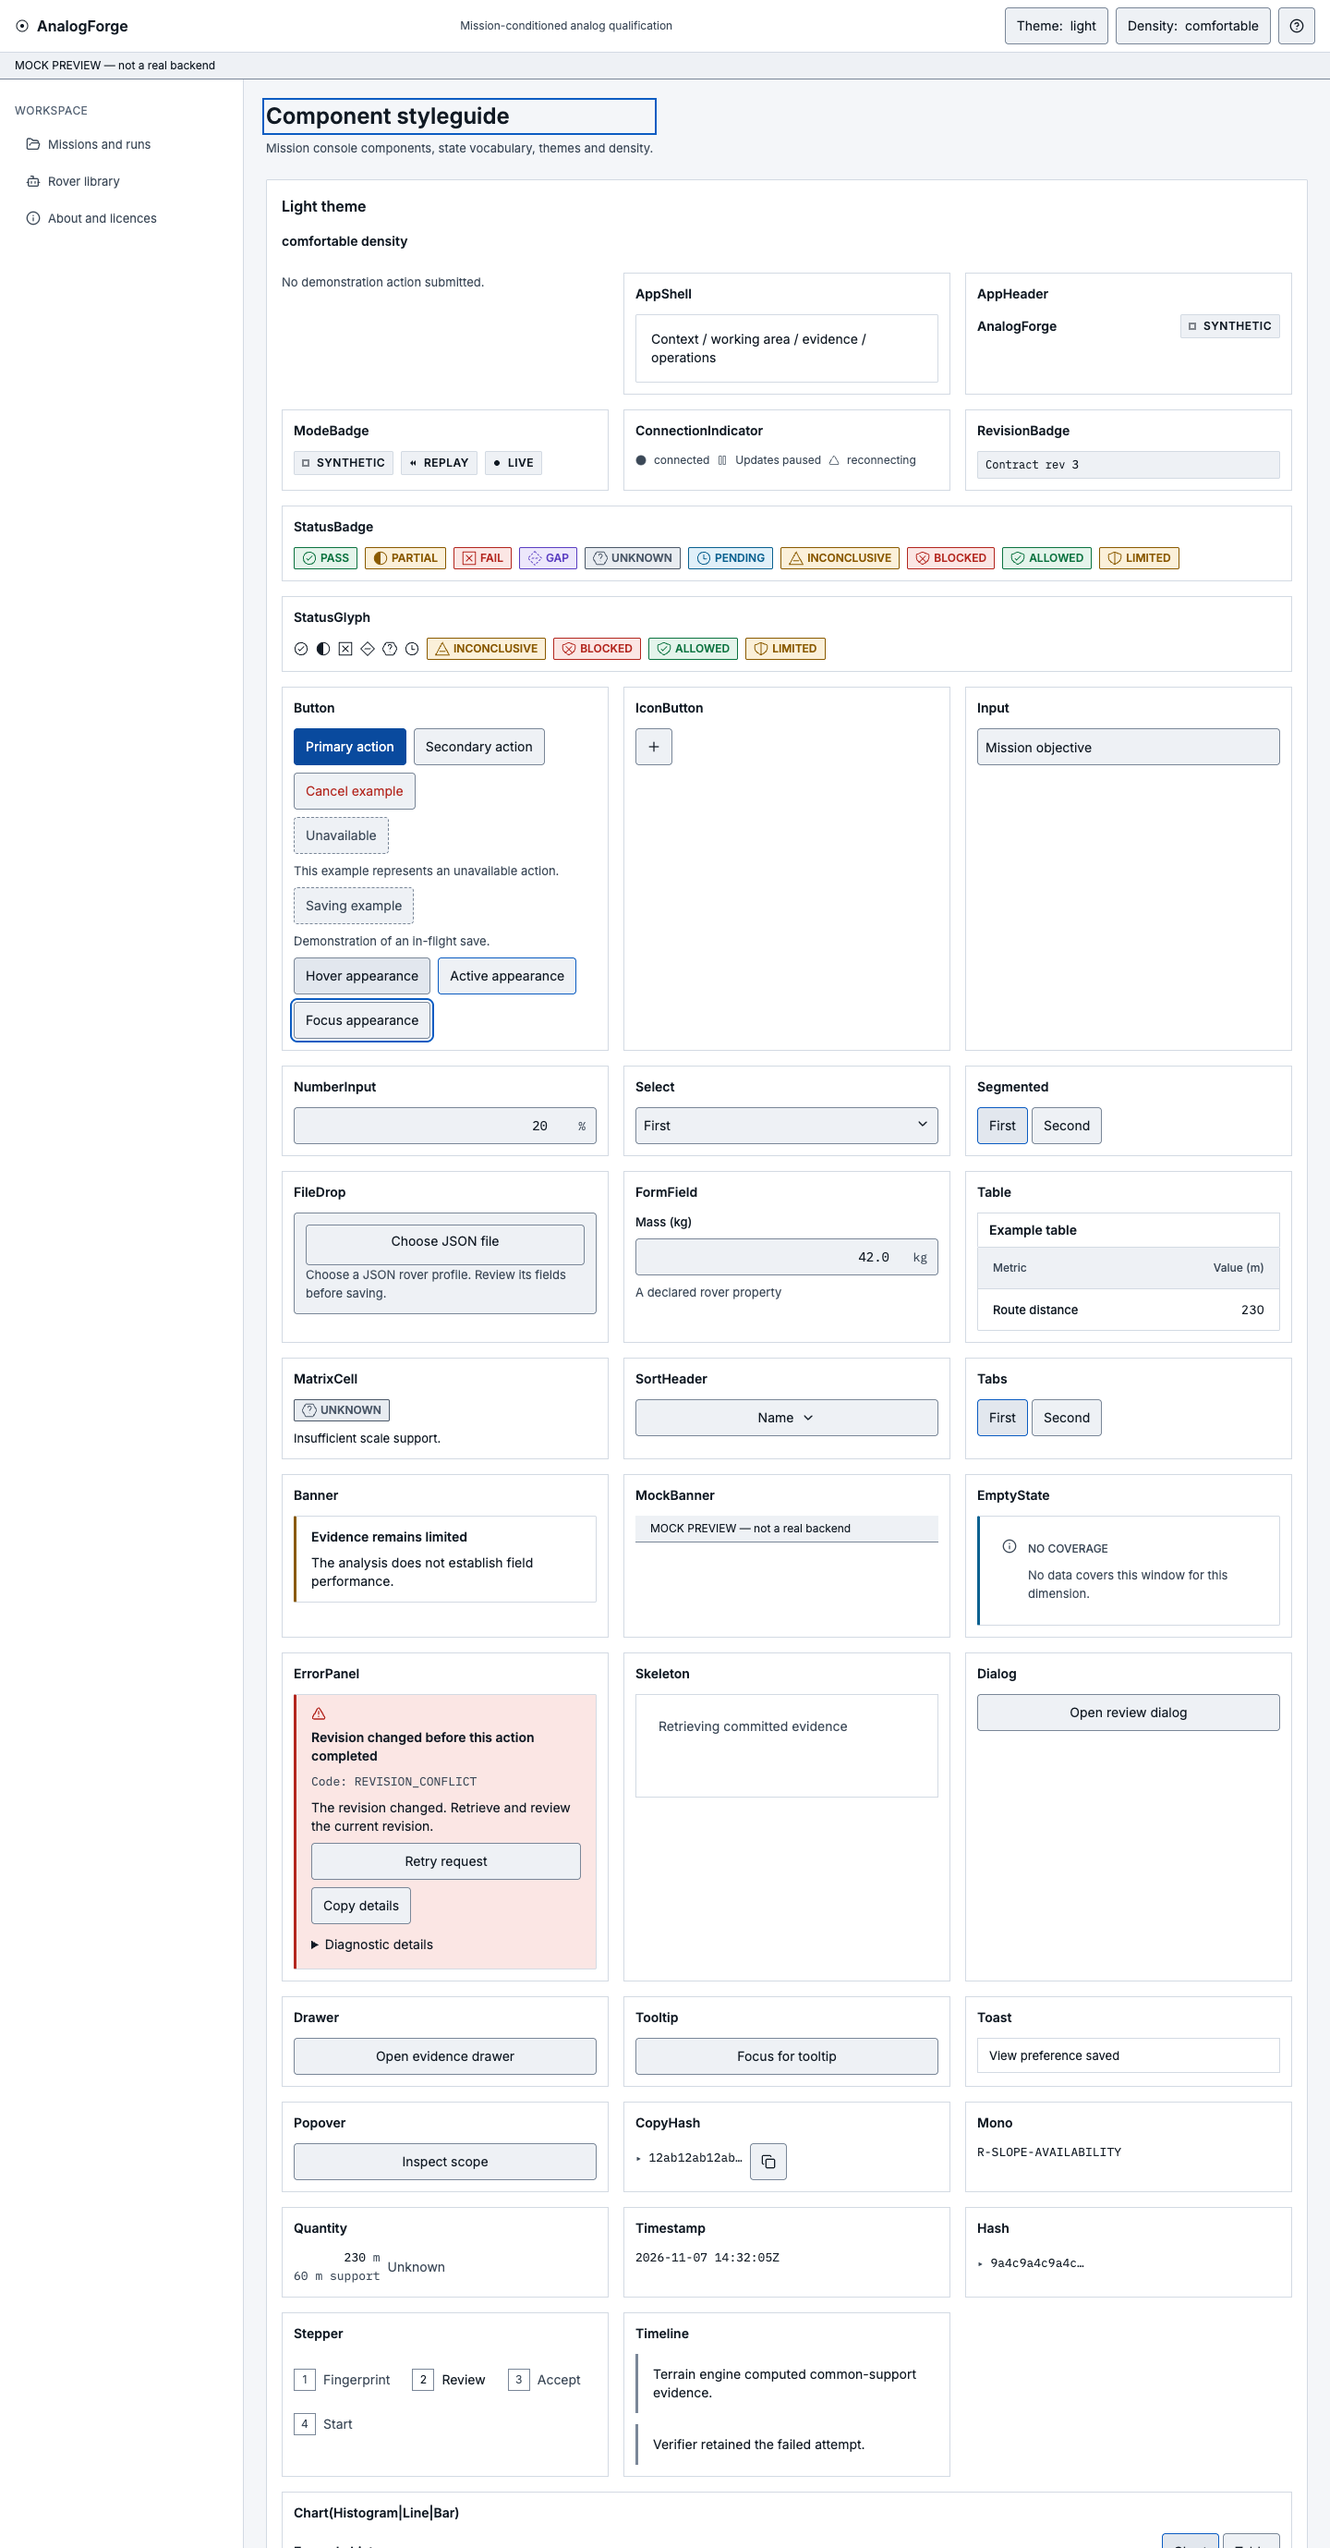
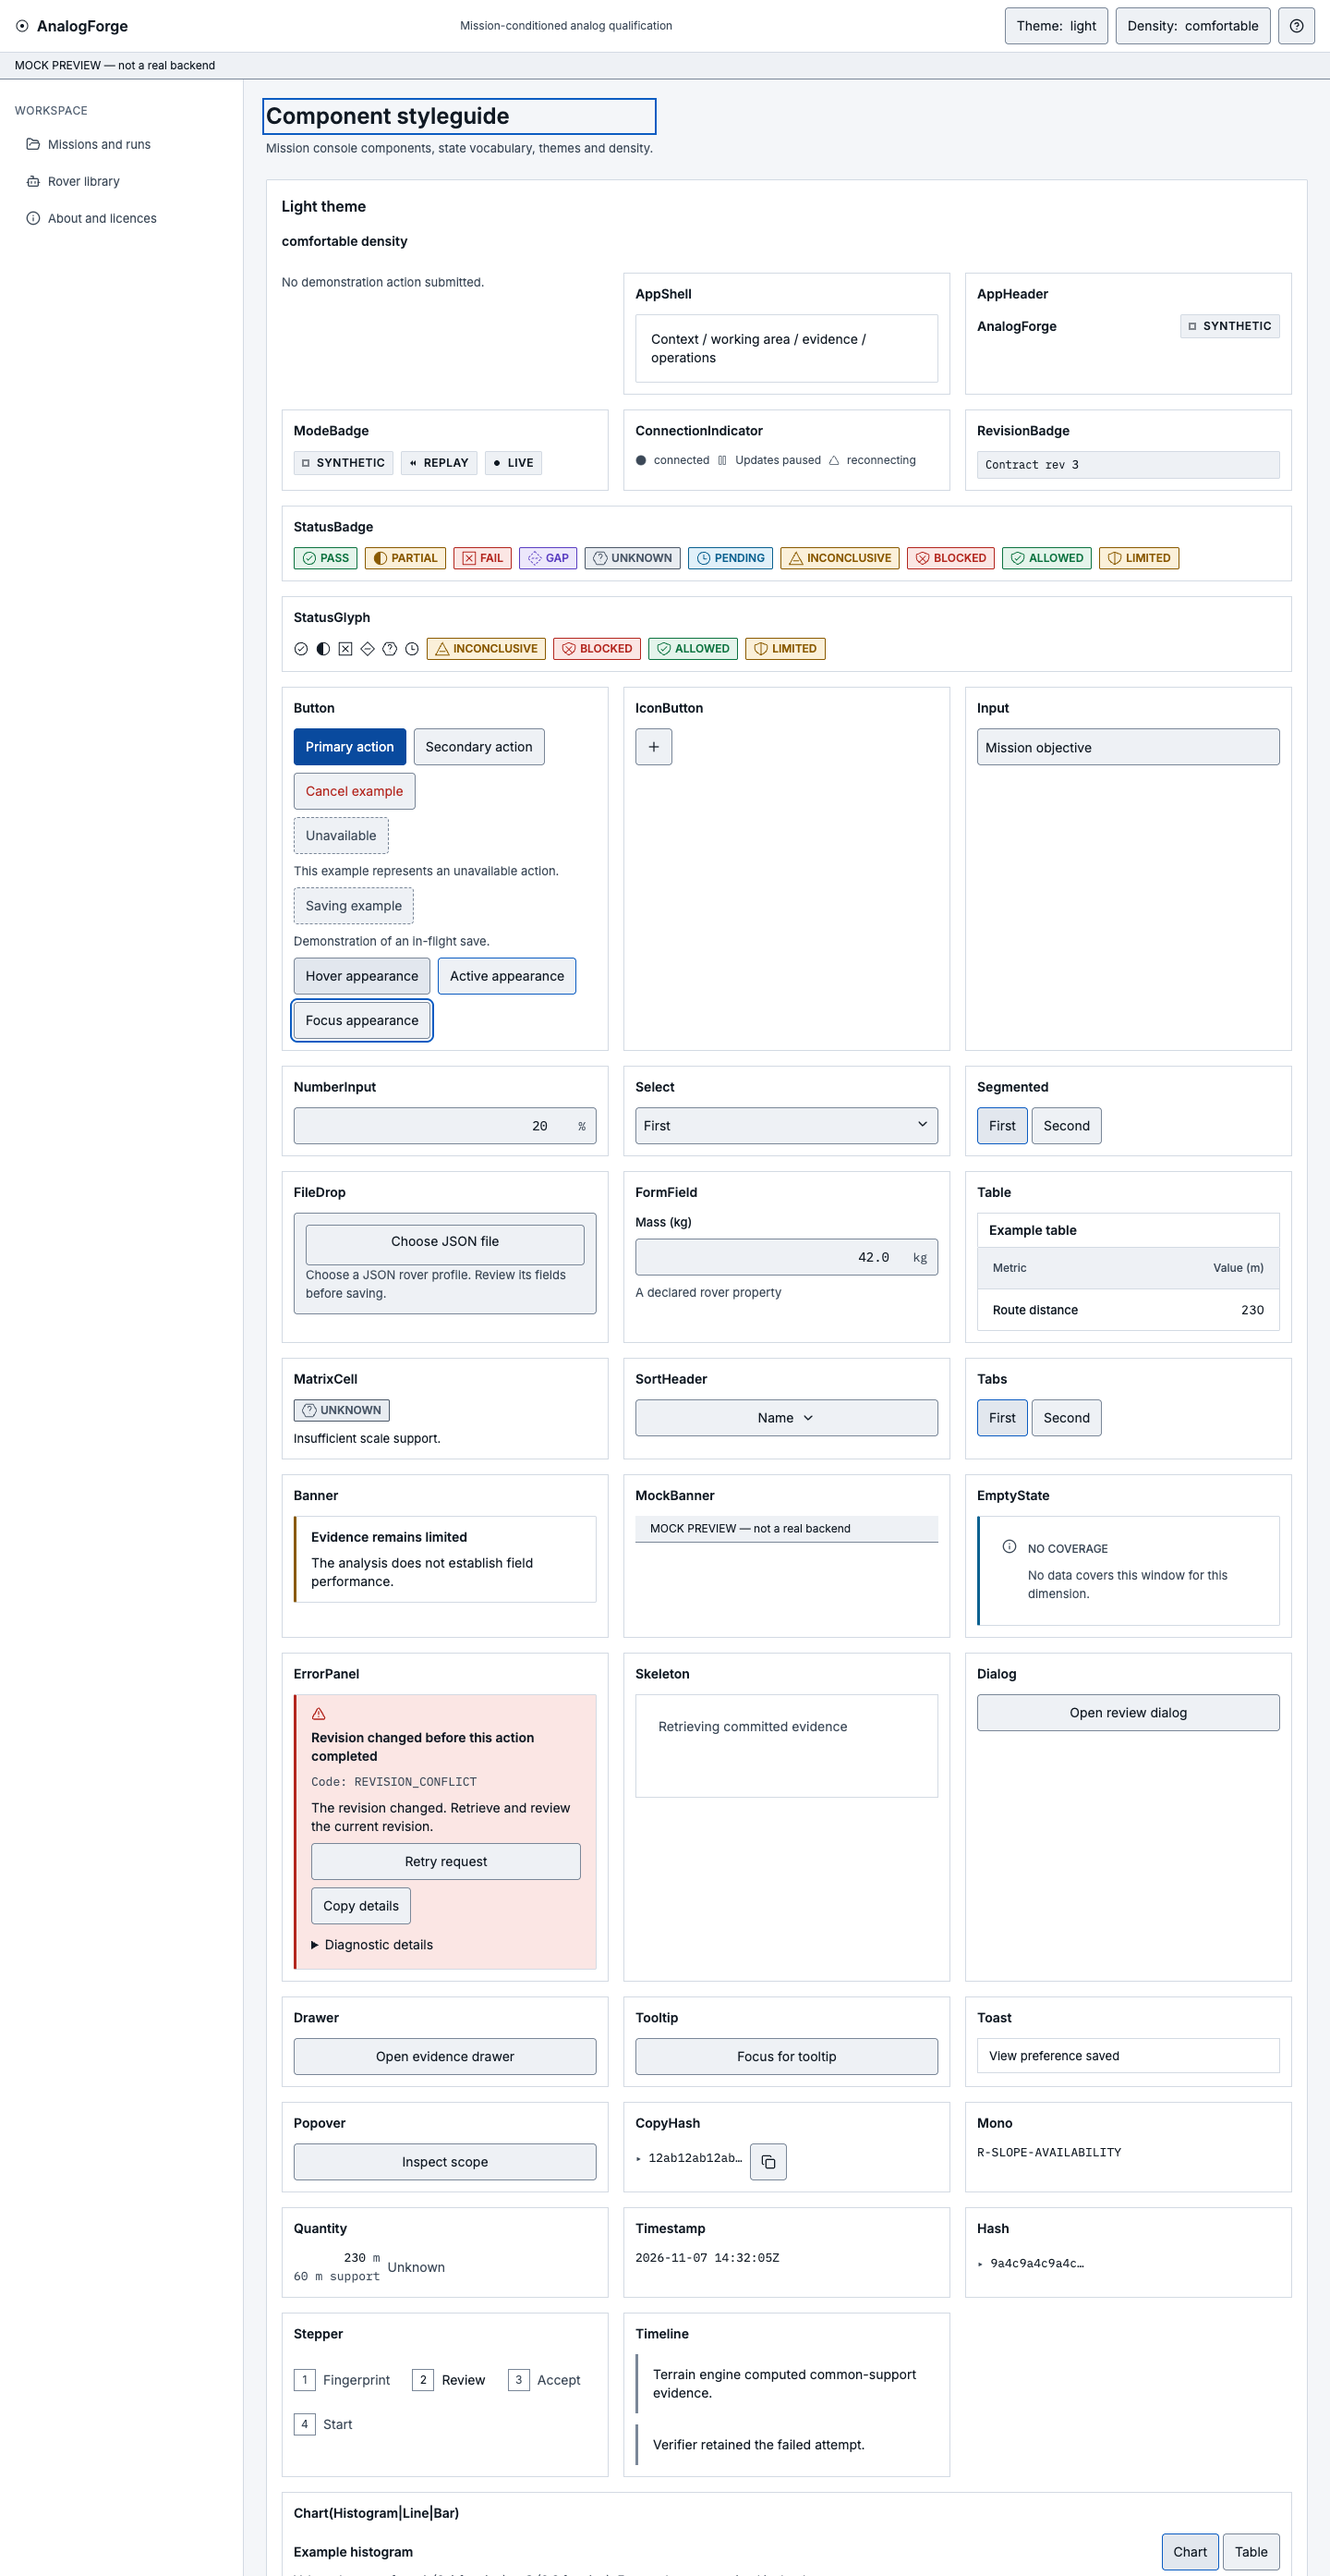
Record operations and chart verification with refreshed guides

diff --git a/team handoffs/aradhya/DESIGN-REVIEW.md b/team handoffs/aradhya/DESIGN-REVIEW.md
@@ -2374,3 +2374,14 @@ Build and functional verification pass. Independent visual acceptance does not p
 ## User-selected follow-up: mobile space, matrix caption, passport grouping
 
 Source8ca8769 resolves these three requested findings with focused geometric/browser assertions and visual inspection: two complete mobile candidate/matrix rows; a visible experiment action; accessible folded context/actions; a caption whose glyphs remain inside the visible frame under text-spacing overrides and whose position is unchanged by horizontal table scrolling; and top-aligned requirement groups with one candidate assessment per compact subrow. Passport print width/digest placement and exports also pass. All other historical reviewer text and scores above remain unchanged. No overall design regrade is claimed.
+
+
+## Requested operations/chart follow-up: implementation verification
+
+Source bb6af30 addresses the requested event-row density and chart text descriptions. This section records implementation evidence; it is not a new independent rubric review and does not change historical scores.
+
+The reported compact histogram first-tick misalignment was inspected before changing chart code. The saved light/compact part2 places A at the center of its first bar. Live measurements show the same approximately0.497 CSS px tick-to-bar-center difference for A, B and C. The1SVG-unit inter-bar gap accounts for that common half-unit offset. All six theme/density cohorts retain the same result after the text-only chart change. The report's A-specific displacement is not reproduced; axis and bar geometry remain unchanged. Raw measurements: analogforge/out/operations-charts-alignment-before.log and operations-charts-guide-manifest.json. All12 guide images were refreshed at1440 CSS px, native resolution, two parts with48px overlap; maximum285331bytes.
+
+Timeline sequence, full UTC timestamp, explicit Actor unknown and summary share a scan row on desktop and a compact two-column arrangement on mobile. Native disclosure preserves event type/state and evidence links. The chart's visible description now explains monotonic direction/endpoints, equal values or highest/lowest bins with units. Missing values explicitly prevent a complete-trend claim. SVG accessible descriptions reference the same visible summary.
+
+The broader smoke test also caught a homepage layout shift from the preceding follow-up's loading reservation collapsing. Keep that reservation stable across pending/resolved states; this preserves all four skeleton rows and avoids moving the preset strip when data settles. No threshold or CLS assertion was changed.

diff --git a/team handoffs/aradhya/PROGRESS.md b/team handoffs/aradhya/PROGRESS.md
@@ -35,3 +35,10 @@ The prior complete visual baseline is retained under out/visual-before-three-lay
 Source35077fb keeps the desktop40/60 list/map split and makes Origin/Window visible inside each candidate row without horizontal scrolling. Bounds/access remain in the row disclosure. Both pending workspace tables reserve four complete skeleton rows across both themes, three densities and phone/desktop widths; loaded tables release the extra reservation. Practice links wrap in a compact desktop panel and use a collapsed phone disclosure.
 
 Verified84 frontend unit tests, TypeScript, ESLint, production build, ownership and forbidden scan. All4 selected browser cases pass, including keyboard/200% zoom and the previous mobile/caption/passport regression. The focused visual report has22 reports and zero findings. Evidence: analogforge/out/list-loading-presets-* and out/visual. This is scoped verification, not a new full audit or independent rubric review. Overall merge readiness remains false; main is untouched.
+
+
+## Operations rows and chart descriptions
+
+Source bb6af30 compacts committed events while retaining full UTC timestamps, explicit unknown actors and all evidence/details. Visible chart summaries describe supplied patterns and preserve missing-data limits; the SVG references the same prose. The alleged compact first-tick displacement was not reproduced in the saved screenshot or all six live theme/density cohorts; geometry was left unchanged. All12 native component-guide images were refreshed.
+
+Verified87 frontend tests, TypeScript, ESLint, production build, forbidden scan and ownership. All3 selected browser cases pass: component/shell smoke (including all6 histogram alignment cohorts), compact drawer behavior, and candidate/loading/preset regressions. Focused visual report: 25 reports, zero findings. The first smoke attempt exposed a previous homepage CLS regression when the pending height collapsed; stable table reservation fixes it, and the unchanged smoke assertions pass. Evidence is under analogforge/out/operations-charts-*. No new full audit, independent rubric acceptance or real-backend validation is claimed. Overall merge readiness remains false.

diff --git a/team handoffs/aradhya/DECISIONS.md b/team handoffs/aradhya/DECISIONS.md
@@ -82,3 +82,8 @@ The user explicitly selected mobile work area, matrix caption and passport assoc
 ## Candidate metadata and workspace compactness
 
 Move origin/window from horizontal columns into always-visible row metadata while retaining screening rank/status, map key, actual server values and selection acknowledgement. Keep the prescribed desktop40/60 split. Reserve loading height only while requests are pending, then release unused space. Presets retain every scenario link and use native responsive disclosure. The focused browser assertions cover four-row containment, metadata text containment, split ratio, preset toggling and selection, alongside the previous mobile layout and keyboard/zoom checks. No scientific verdict or API contract changed.
+
+
+## Compact events and data-derived chart prose
+
+Use aligned sequence/time/actor/summary rows and native details for less frequently needed event type/state/evidence. Preserve complete timestamps and explicit missing actor identity. Chart prose is derived solely from supplied plotted values and units; unknown bins block a continuous-trend assertion. Associate the SVG with the visible description. Verify screenshot allegations before changing geometry: no A-specific compact tick defect was reproduced, so scales and anchors are unchanged. Stable workspace table reservation corrects the prior loading-to-empty CLS regression discovered by the smoke test.
